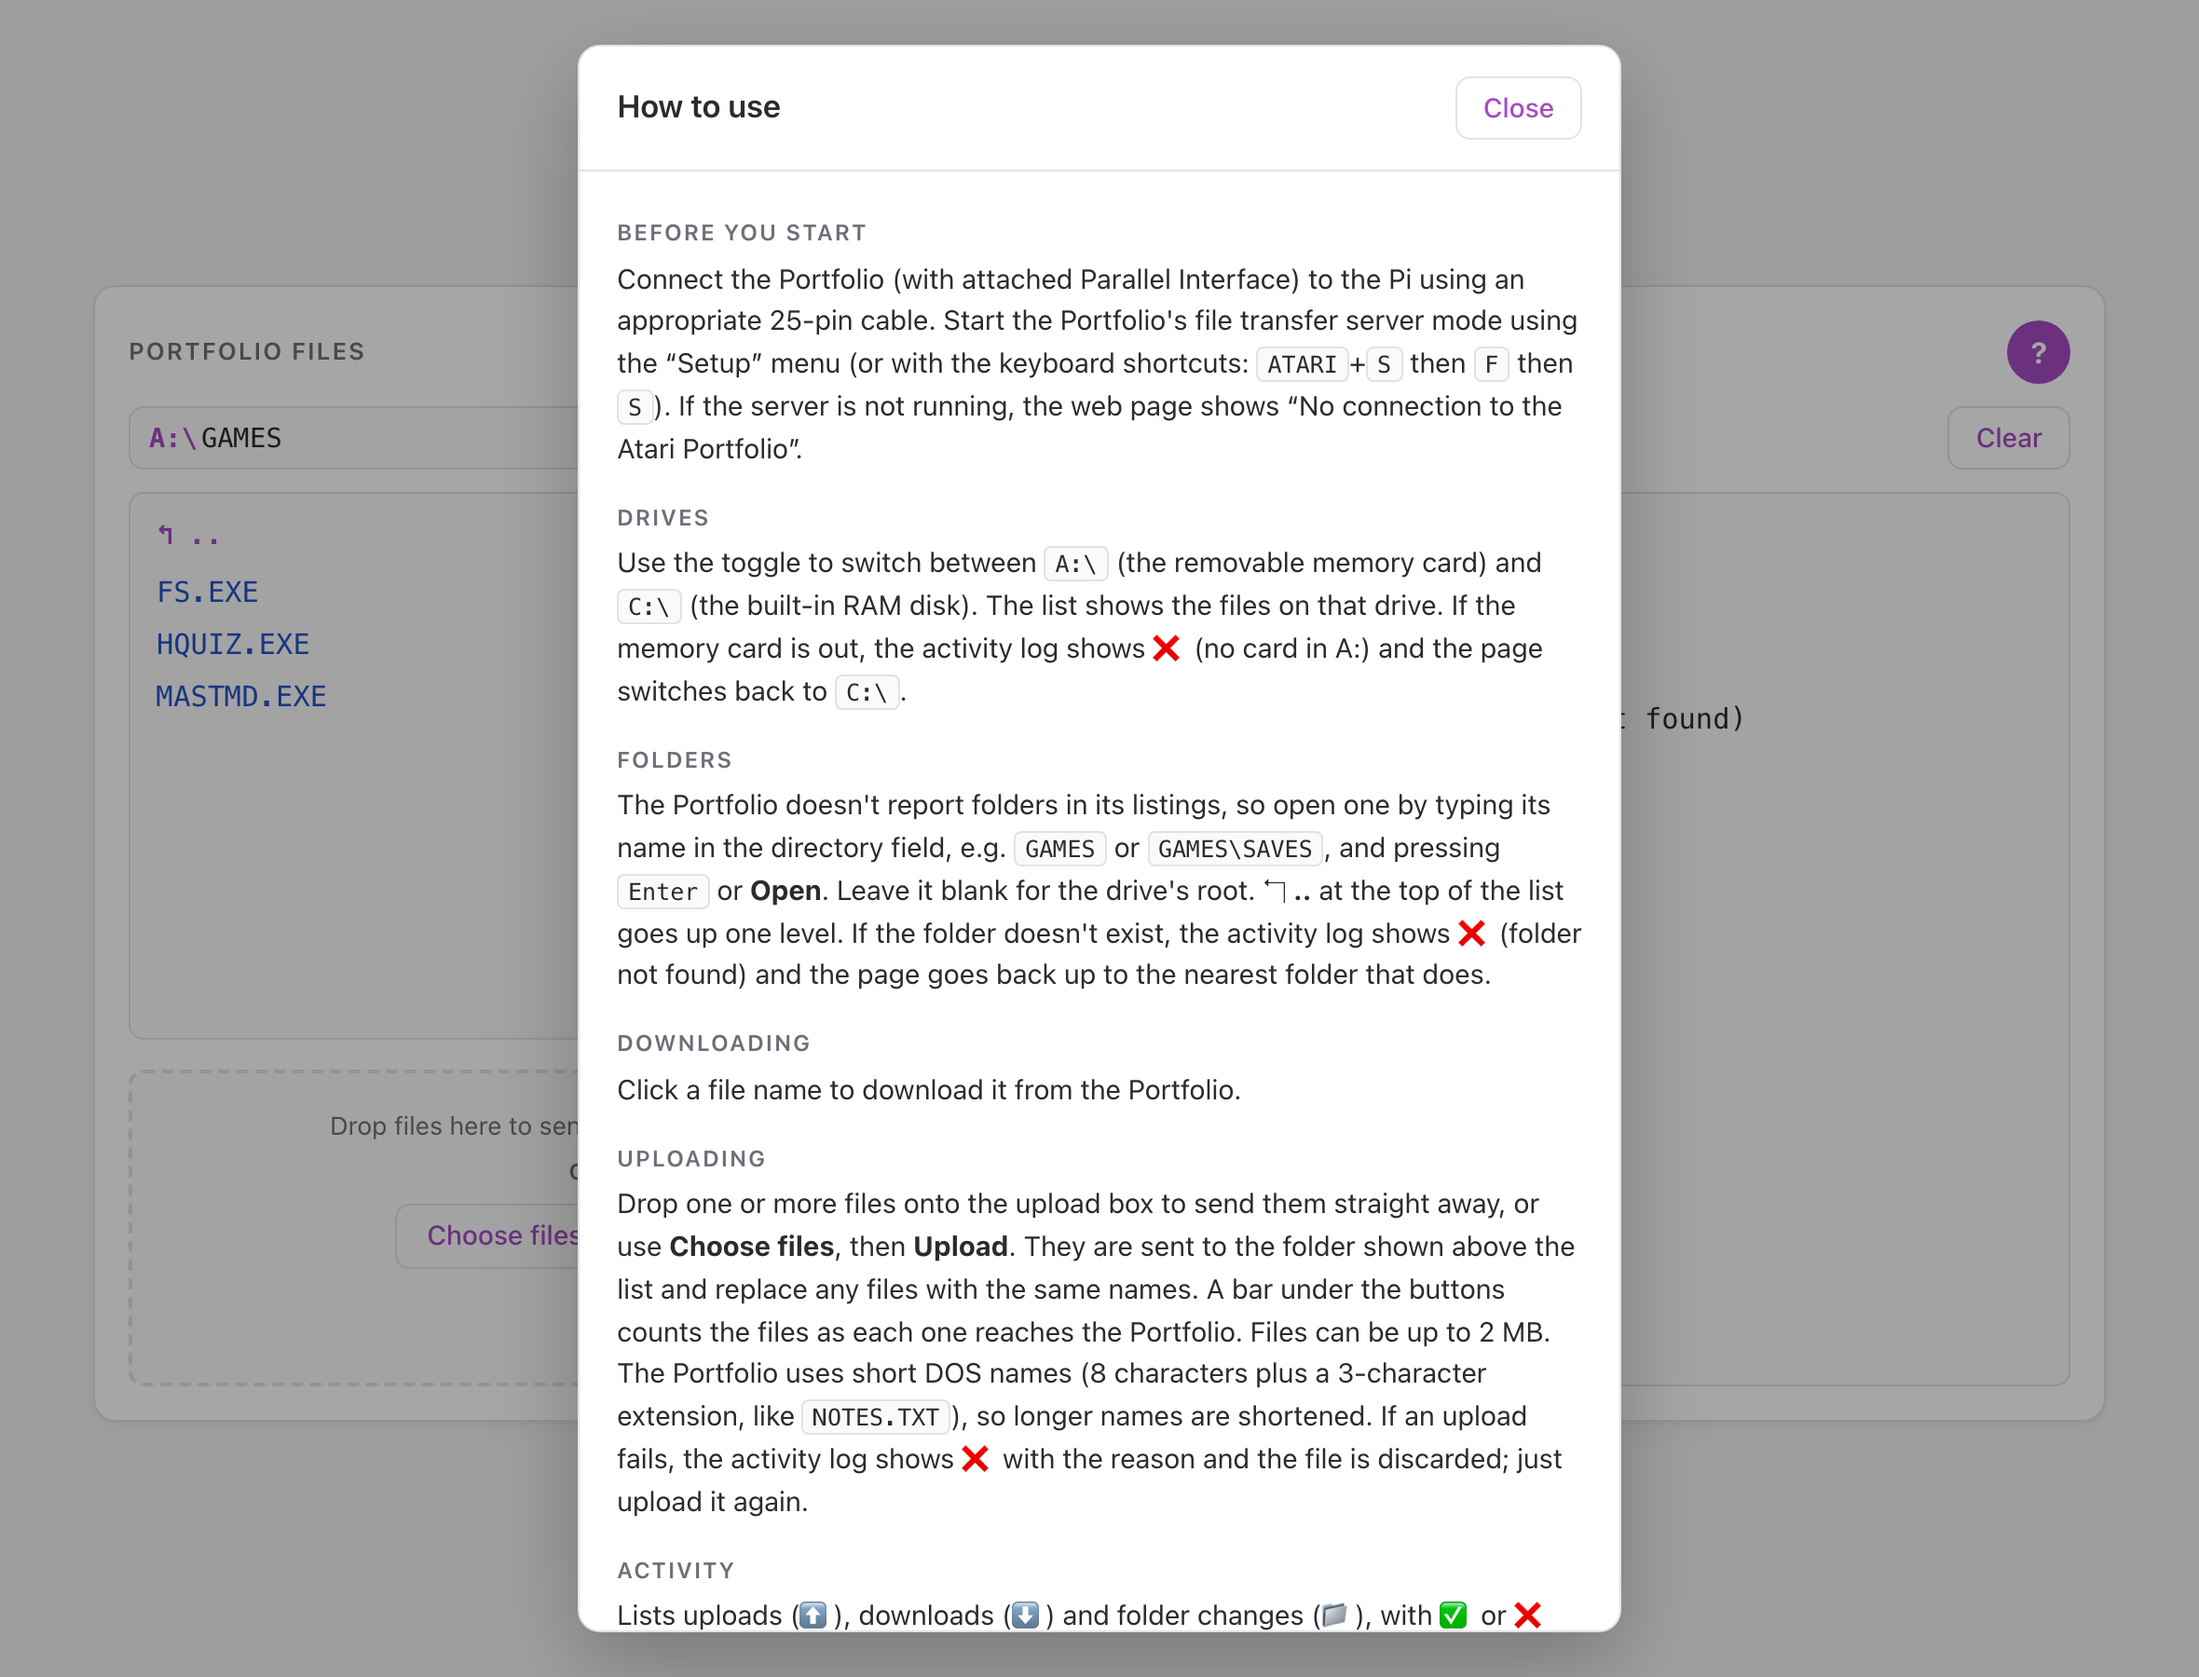
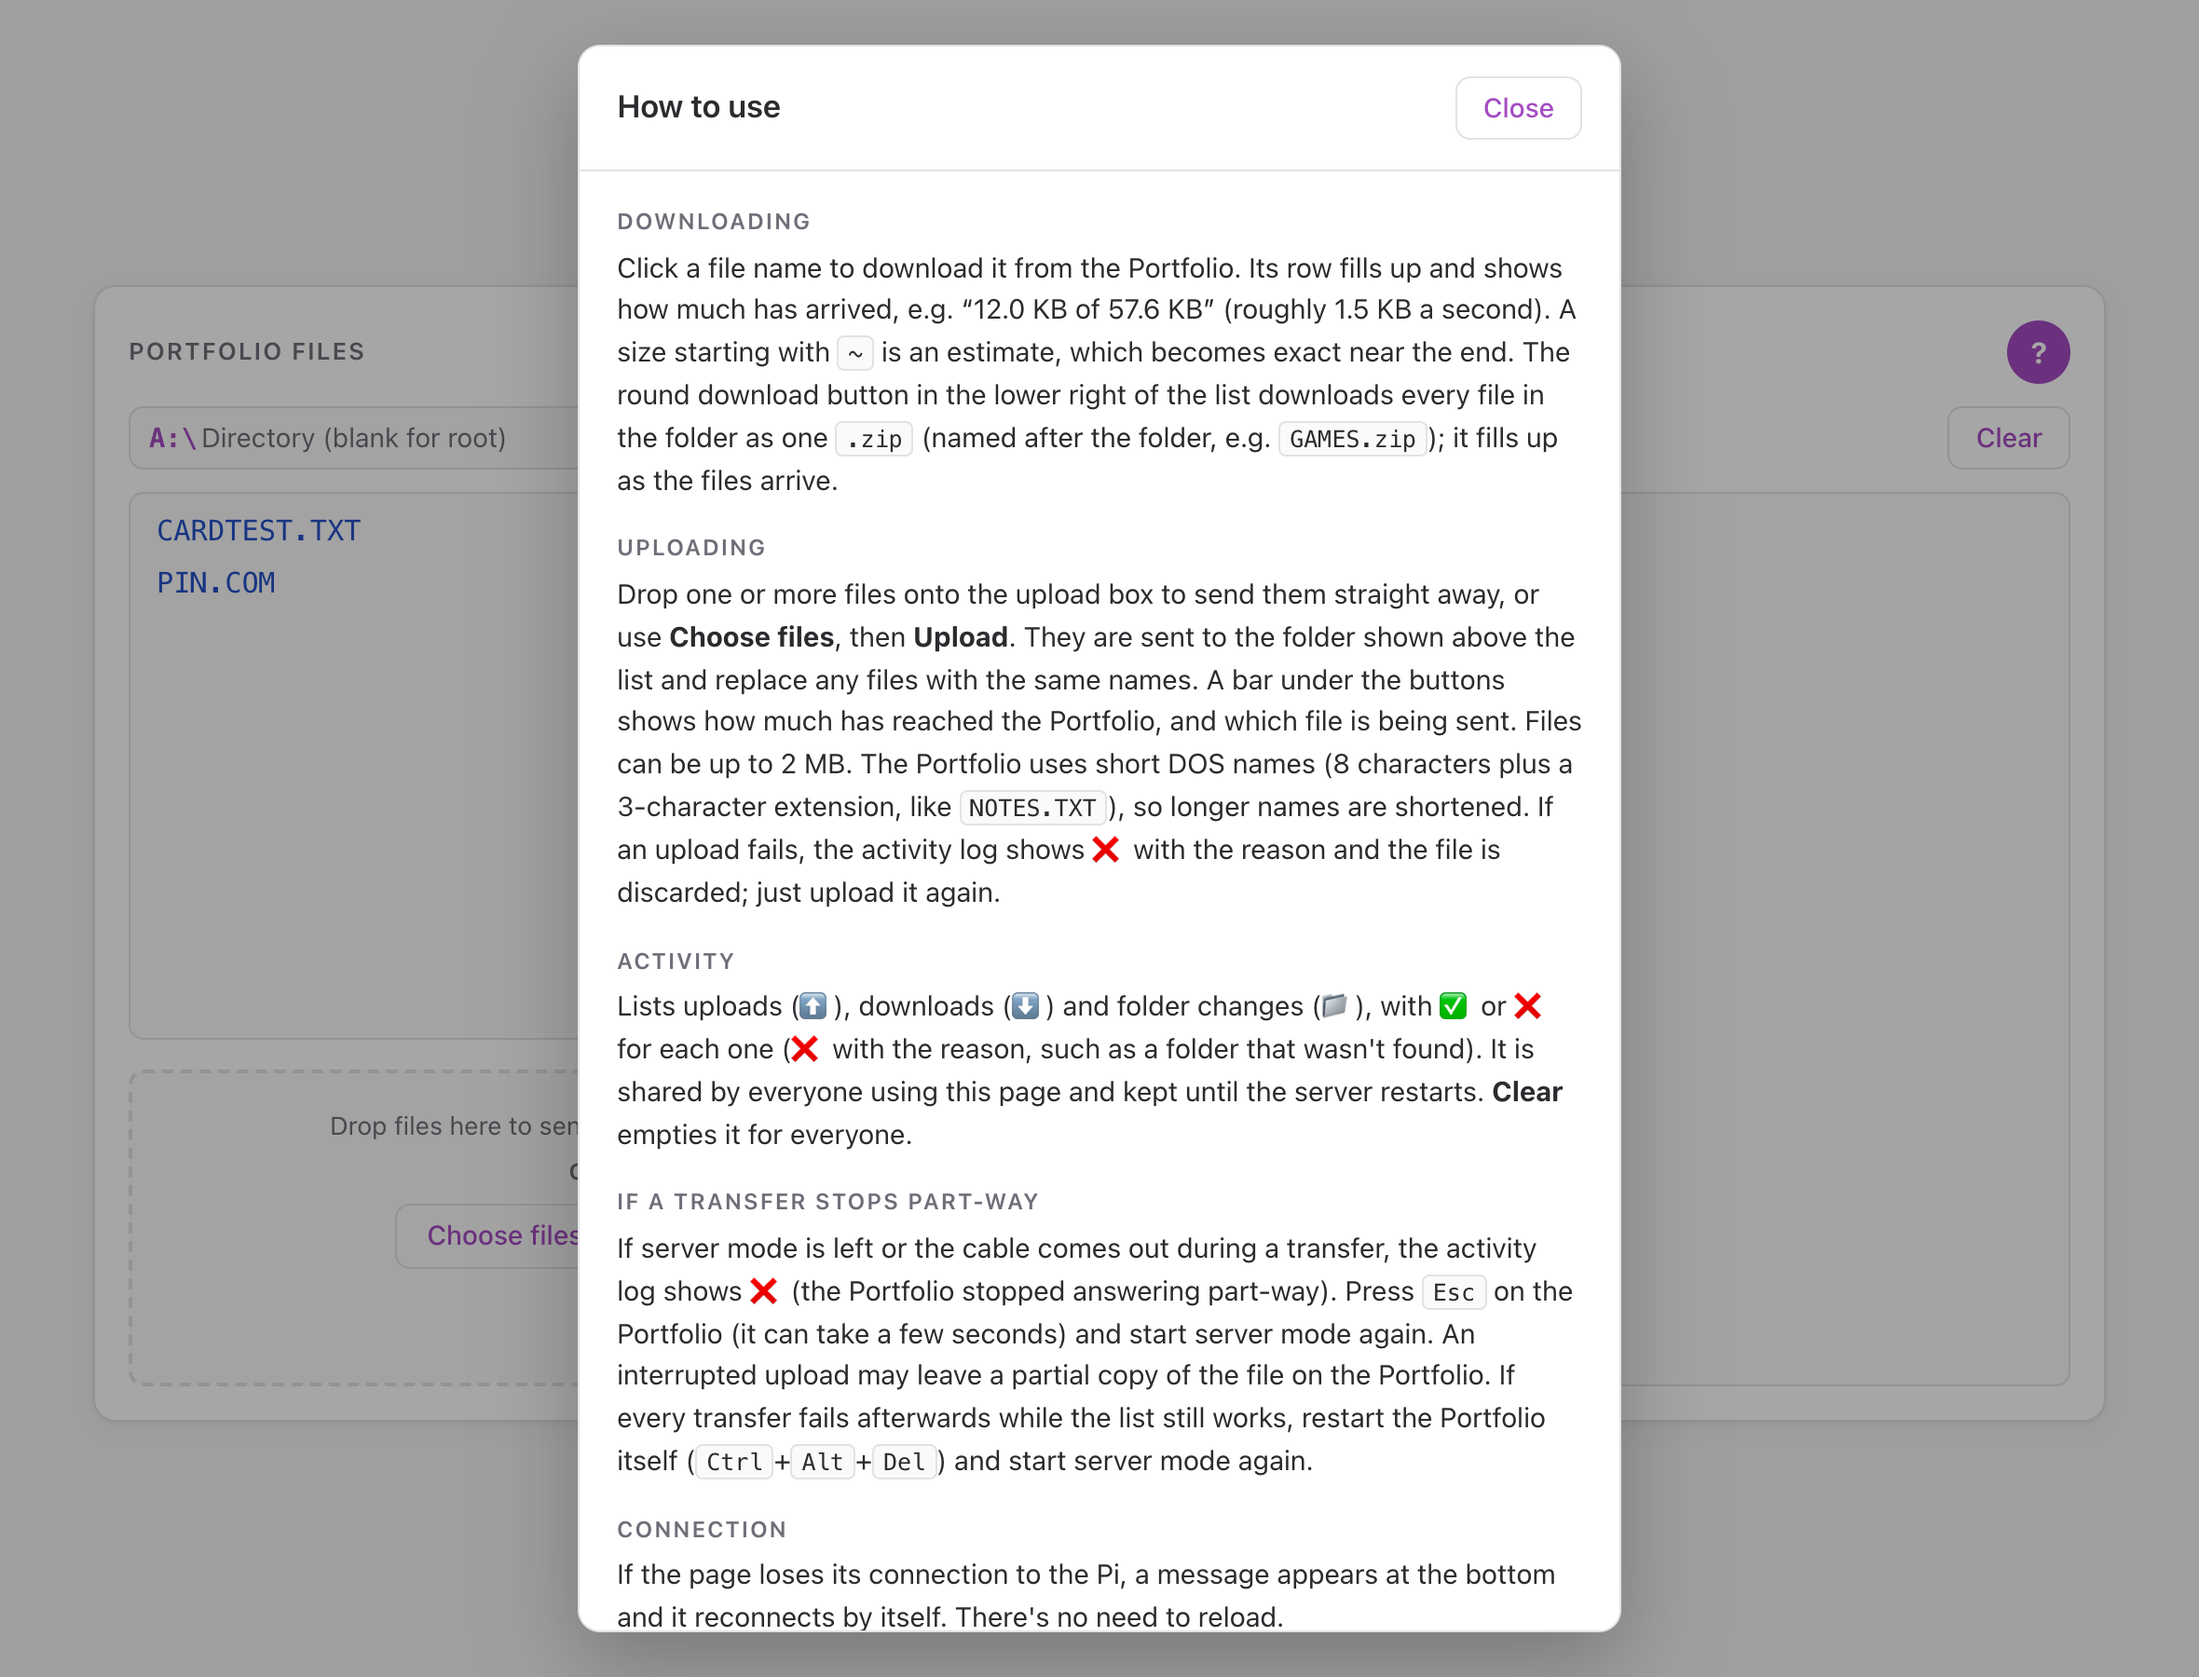
Update the screenshots and help text for transfer progress
New screenshots, taken from real downloads on the Pi, show the
progress: a file's row filling as it downloads (light mode and on a
phone), the download-all button filling (dark mode), and the help
panel's updated Downloading and Uploading sections. The alt text
describes what each one shows.

The help panel said downloads show "Downloading..." and that the upload
bar counts files; it now describes the byte progress, including the
"~" estimate. The README's feature list also mentions downloading a
whole folder as a .zip.

diff --git a/public/rpf.html b/public/rpf.html
@@ -145,16 +145,19 @@
                and the page goes back up to the nearest folder that does.</p>
 
             <h3>Downloading</h3>
-            <p>Click a file name to download it from the Portfolio. It shows “Downloading…”
-               until the file arrives (roughly 1.5&nbsp;KB a second). The round download button
-               in the lower right of the list downloads every file in the folder as one
-               <code>.zip</code> (named after the folder, e.g. <code>GAMES.zip</code>).</p>
+            <p>Click a file name to download it from the Portfolio. Its row fills up and shows
+               how much has arrived, e.g. “12.0&nbsp;KB of 57.6&nbsp;KB” (roughly 1.5&nbsp;KB a
+               second). A size starting with <code>~</code> is an estimate, which becomes exact
+               near the end. The round download button in the lower right of the list downloads
+               every file in the folder as one <code>.zip</code> (named after the folder, e.g.
+               <code>GAMES.zip</code>); it fills up as the files arrive.</p>
 
             <h3>Uploading</h3>
             <p>Drop one or more files onto the upload box to send them straight away, or use
                <strong>Choose files</strong>, then <strong>Upload</strong>. They are sent to the
                folder shown above the list and replace any files with the same names. A bar under
-               the buttons counts the files as each one reaches the Portfolio. Files can be up to 2&nbsp;MB. The Portfolio
+               the buttons shows how much has reached the Portfolio, and which file is being
+               sent. Files can be up to 2&nbsp;MB. The Portfolio
                uses short DOS names (8 characters plus a 3-character extension, like
                <code>NOTES.TXT</code>), so longer names are shortened. If an upload fails, the
                activity log shows ❌ with the reason and the file is discarded; just upload

diff --git a/README.md b/README.md
@@ -5,7 +5,7 @@
 Connect a Raspberry Pi to the Portfolio's Parallel Interface, then browse, download and upload files from any browser on your network — desktop or phone.
 
 <p align="center">
-  <img src="images/screenshot-desktop.png" width="800" alt="The PiPortfolioDaemon web interface: Portfolio files on the left, activity log on the right" />
+  <img src="images/screenshot-desktop.png" width="800" alt="The PiPortfolioDaemon web interface: the A:\ memory card on the left, with CARDTEST.TXT part-way through downloading (23.2 KB of 57.6 KB), and the activity log on the right" />
 </p>
 
 | | |
@@ -48,7 +48,7 @@ Without these, a Portfolio is mostly a pretty plastic brick. PiPortfolioDaemon r
 ## Features
 
 - **Browse both drives** — switch between `A:\` (memory card) and `C:\` (RAM disk), open folders by name and go back up with `..`
-- **Download** a file with one click
+- **Download** a file with one click, or every file in a folder as one `.zip`
 - **Upload** several files at once by dropping them onto the page (they're sent straight away), with **Choose files**, or by copying them into the Pi's `upload/` folder (for example over a SAMBA share)
 - **Activity log** of uploads, downloads and folder changes, shared by everyone using the page
 - **Built-in help** — the **?** button explains each part of the page
@@ -59,13 +59,13 @@ Without these, a Portfolio is mostly a pretty plastic brick. PiPortfolioDaemon r
 ## Screenshots
 
 <p align="center">
-  <img src="images/screenshot-dark.png" width="560" alt="The web interface in dark mode" />
+  <img src="images/screenshot-dark.png" width="560" alt="The web interface in dark mode: the C:\ RAM disk, with the download-all button filling as the folder downloads" />
   &nbsp;
-  <img src="images/screenshot-mobile.png" width="220" alt="The web interface on a phone" />
+  <img src="images/screenshot-mobile.png" width="220" alt="The web interface on a phone, part-way through downloading a file from the memory card" />
 </p>
 
 <p align="center">
-  <img src="images/screenshot-help.png" width="560" alt="The built-in help panel" />
+  <img src="images/screenshot-help.png" width="560" alt="The built-in help panel, open at its Downloading and Uploading sections" />
 </p>
 
 ---
